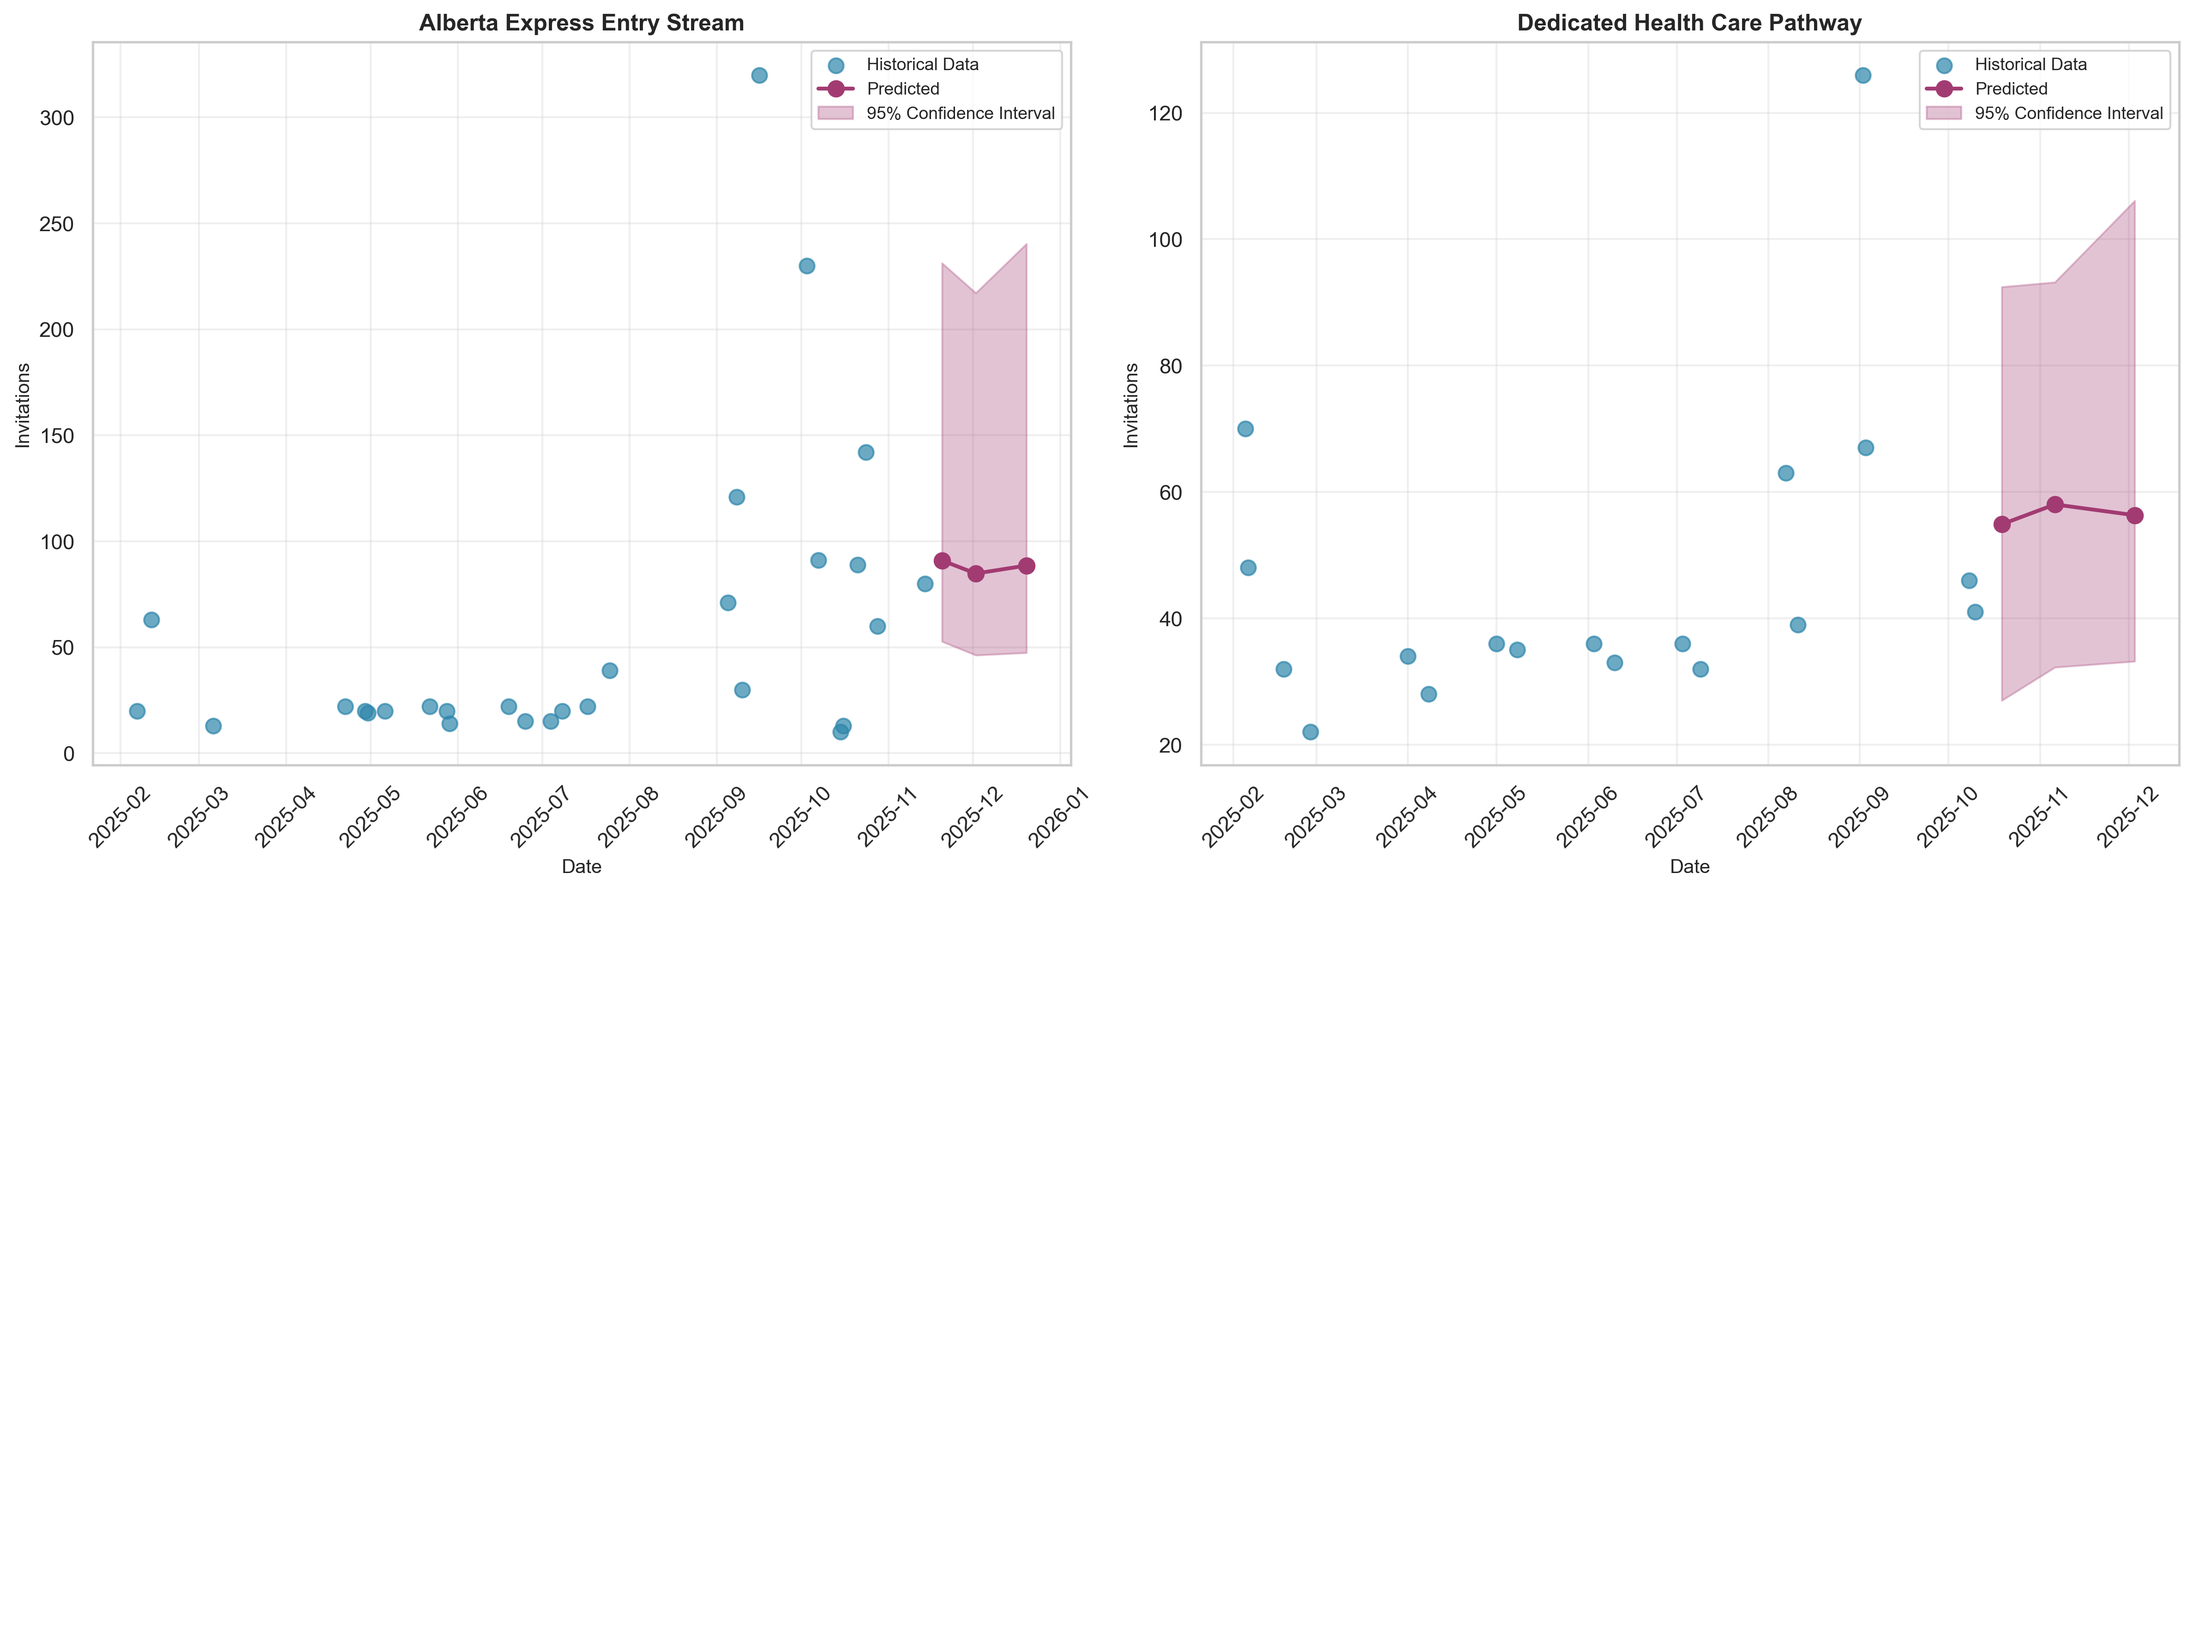
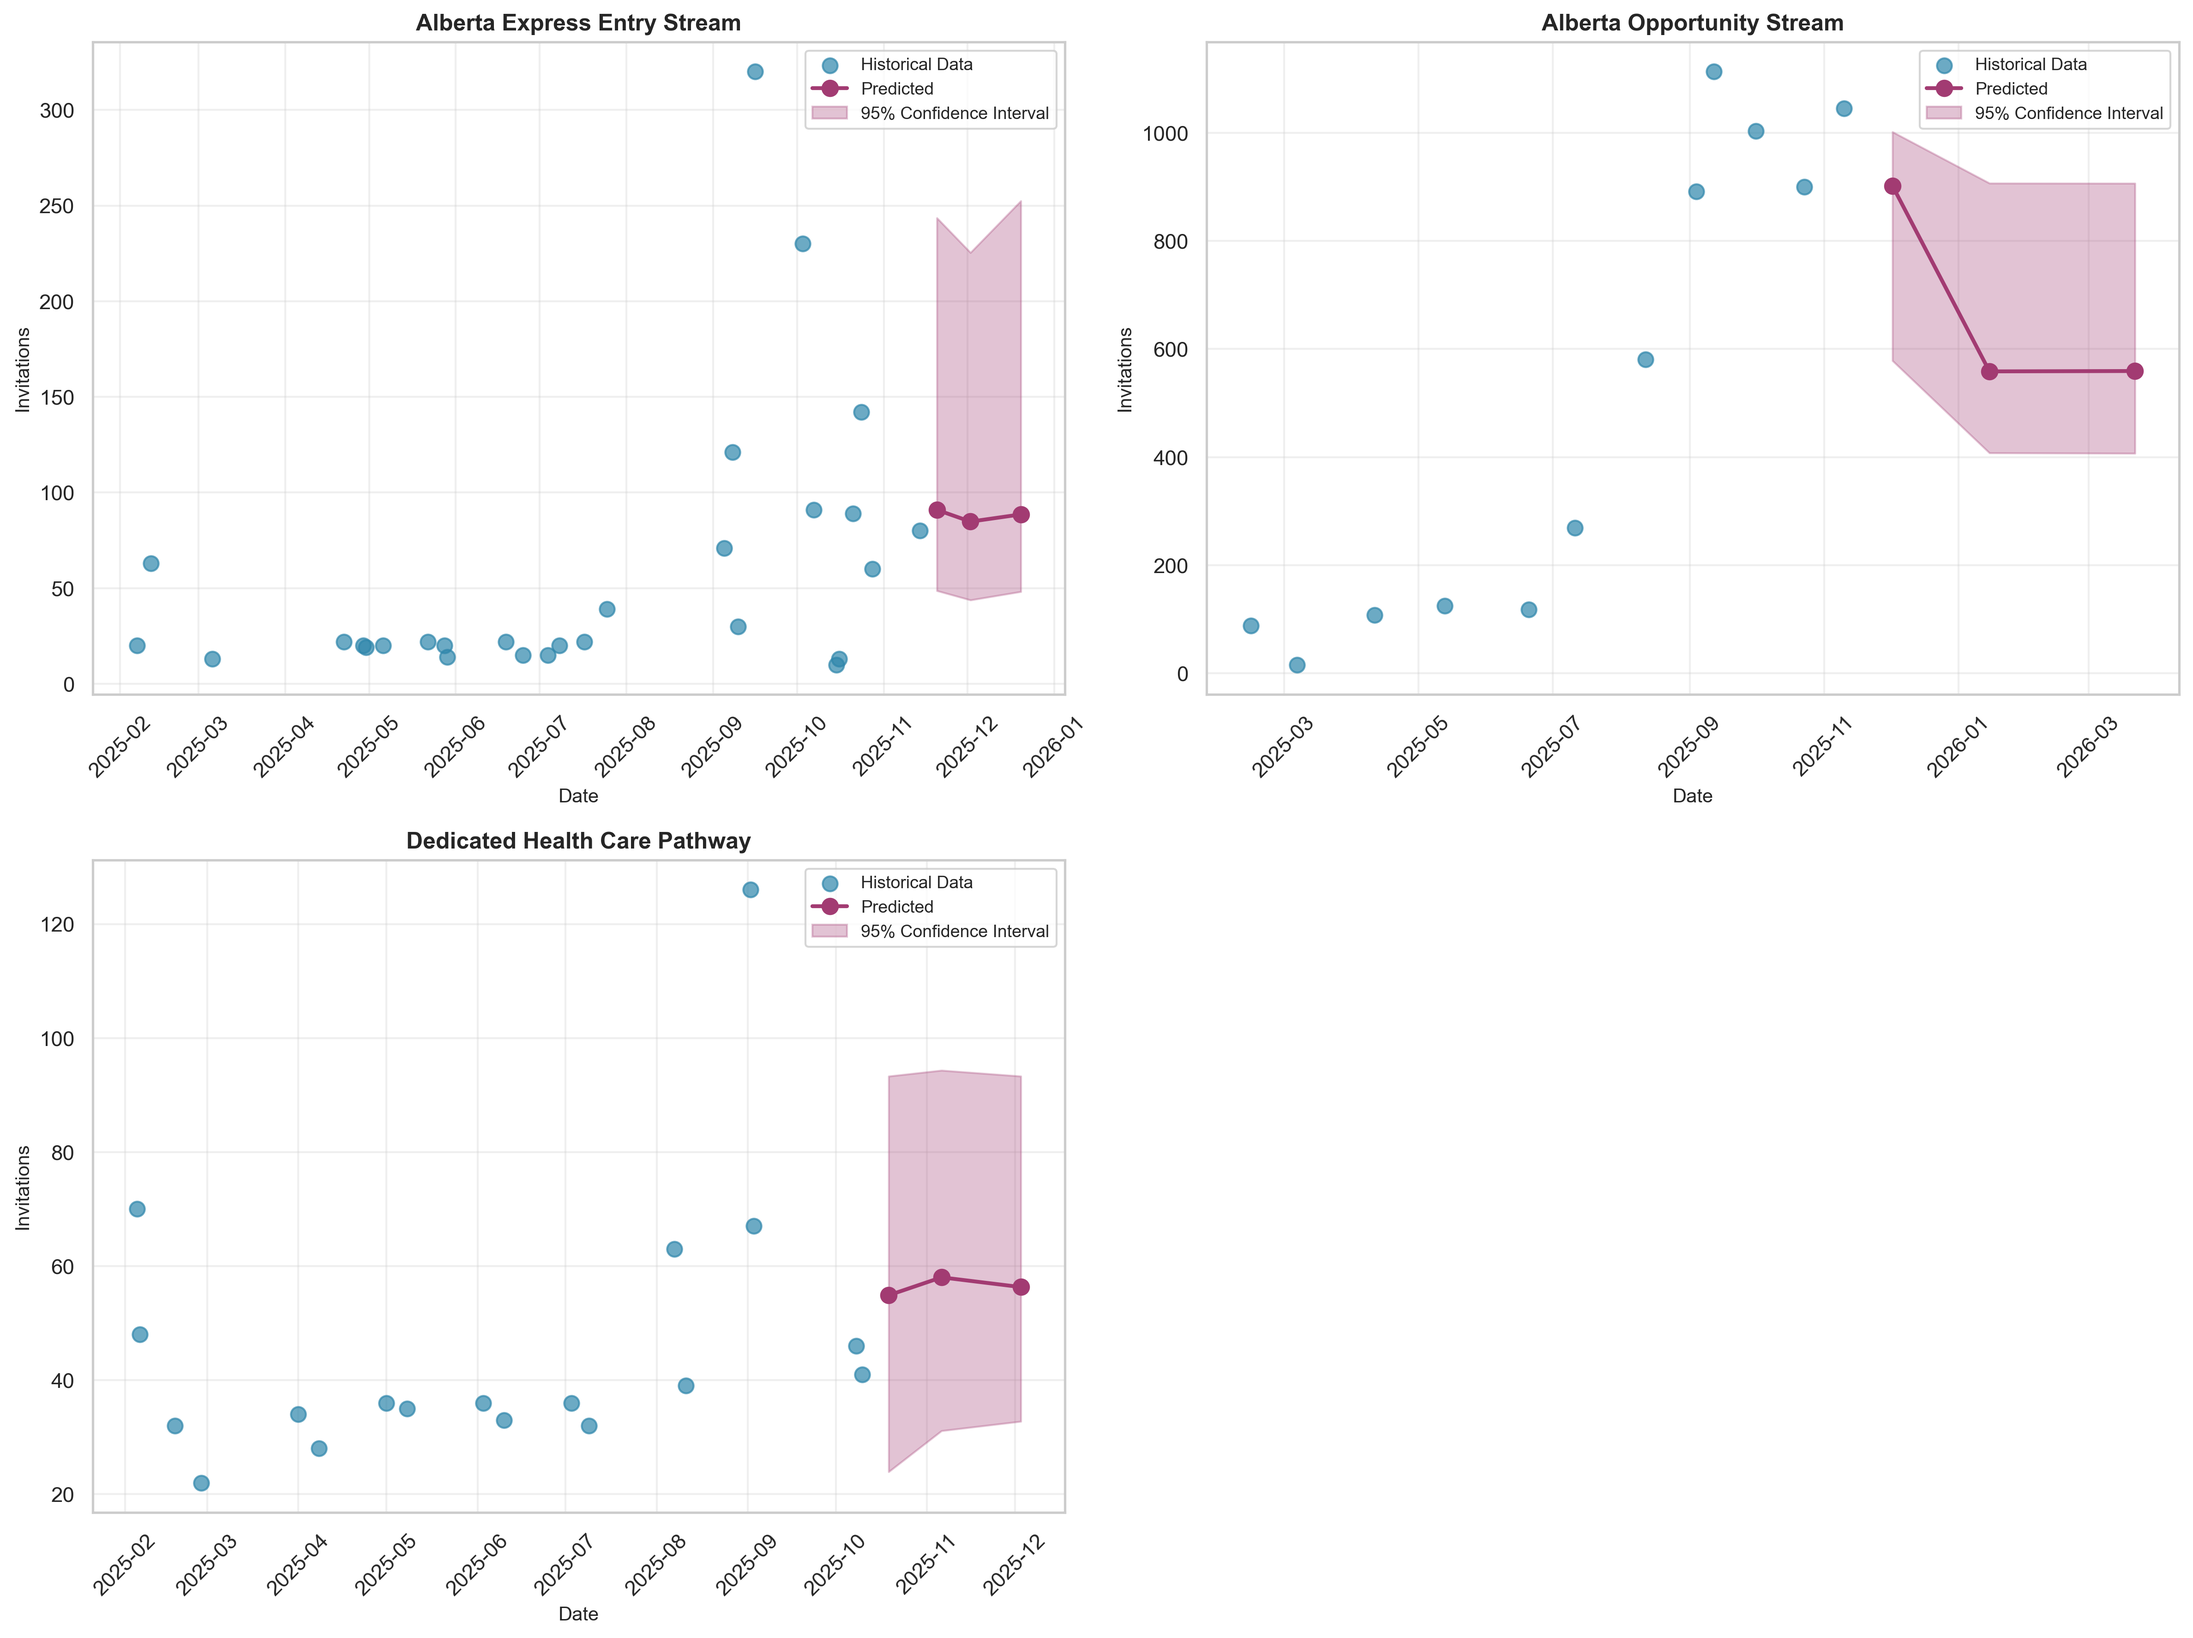
Update model report and visualization files

diff --git a/src/fixed_modeling.py b/src/fixed_modeling.py
@@ -143,7 +143,7 @@ def rolling_backtest_fixed(
     g: pd.DataFrame,
     feature_cols: List[str],
     model_factory,
-    min_train: int = 12,
+    min_train: int = 8,
 ) -> Tuple[float, int, str]:
     """
     FIX 4: Rolling validation with feature rebuilding in each slice.
@@ -152,7 +152,7 @@ def rolling_backtest_fixed(
     """
     g = g.sort_values("draw_date")
 
-    if g.shape[0] <= min_train:
+    if g.shape[0] < min_train:
         return np.nan, 0, f"Insufficient data ({g.shape[0]} events, need {min_train}+)"
 
     preds, actuals = [], []

diff --git a/reports/fixed_model_report.md b/reports/fixed_model_report.md
@@ -12,34 +12,38 @@
 
 | Stream | Model | MAE | Test Size | Train Events |
 | --- | --- | --- | --- | --- |
-| Alberta Express Entry | Linear | N/A - Insufficient data (3 events, need 12+) | 0 | 3 |
-| Alberta Express Entry | RandomForest | N/A - Insufficient data (3 events, need 12+) | 0 | 3 |
-| Alberta Express Entry | GradientBoosting | N/A - Insufficient data (3 events, need 12+) | 0 | 3 |
-| Alberta Express Entry Stream | Linear | 387.17 | 17 | 28 |
-| Alberta Express Entry Stream | RandomForest | 69.46 | 17 | 28 |
-| Alberta Express Entry Stream | GradientBoosting | 78.42 | 17 | 28 |
-| Alberta Opportunity Stream | Linear | N/A - Insufficient data (12 events, need 12+) | 0 | 12 |
-| Alberta Opportunity Stream | RandomForest | N/A - Insufficient data (12 events, need 12+) | 0 | 12 |
-| Alberta Opportunity Stream | GradientBoosting | N/A - Insufficient data (12 events, need 12+) | 0 | 12 |
-| Dedicated Health Care Pathway | Linear | 126.83 | 7 | 18 |
-| Dedicated Health Care Pathway | RandomForest | 32.55 | 7 | 18 |
-| Dedicated Health Care Pathway | GradientBoosting | 33.59 | 7 | 18 |
-| Tourism and Hospitality Stream | Linear | N/A - Insufficient data (3 events, need 12+) | 0 | 3 |
-| Tourism and Hospitality Stream | RandomForest | N/A - Insufficient data (3 events, need 12+) | 0 | 3 |
-| Tourism and Hospitality Stream | GradientBoosting | N/A - Insufficient data (3 events, need 12+) | 0 | 3 |
+| Alberta Express Entry | Linear | N/A - Insufficient data (3 events, need 8+) | 0 | 3 |
+| Alberta Express Entry | RandomForest | N/A - Insufficient data (3 events, need 8+) | 0 | 3 |
+| Alberta Express Entry | GradientBoosting | N/A - Insufficient data (3 events, need 8+) | 0 | 3 |
+| Alberta Express Entry Stream | Linear | 318.86 | 21 | 28 |
+| Alberta Express Entry Stream | RandomForest | 58.51 | 21 | 28 |
+| Alberta Express Entry Stream | GradientBoosting | 68.94 | 21 | 28 |
+| Alberta Opportunity Stream | Linear | 770.79 | 4 | 12 |
+| Alberta Opportunity Stream | RandomForest | 182.52 | 4 | 12 |
+| Alberta Opportunity Stream | GradientBoosting | 129.6 | 4 | 12 |
+| Dedicated Health Care Pathway | Linear | 84.4 | 11 | 18 |
+| Dedicated Health Care Pathway | RandomForest | 21.31 | 11 | 18 |
+| Dedicated Health Care Pathway | GradientBoosting | 22.71 | 11 | 18 |
+| Tourism and Hospitality Stream | Linear | N/A - Insufficient data (3 events, need 8+) | 0 | 3 |
+| Tourism and Hospitality Stream | RandomForest | N/A - Insufficient data (3 events, need 8+) | 0 | 3 |
+| Tourism and Hospitality Stream | GradientBoosting | N/A - Insufficient data (3 events, need 8+) | 0 | 3 |
 
 ## Best Models
 
 - **Alberta Express Entry Stream**: RandomForest
+- **Alberta Opportunity Stream**: GradientBoosting
 - **Dedicated Health Care Pathway**: RandomForest
 
 ## Forecasts (with Block Bootstrap 95% CI)
 
 | Stream | Date | Predicted | 95% CI Lower | 95% CI Upper | Model | Holiday |
 | --- | --- | --- | --- | --- | --- | --- |
-| Alberta Express Entry Stream | 2025-11-20 | 91 | 53 | 231 | RandomForest |  |
-| Alberta Express Entry Stream | 2025-12-02 | 85 | 46 | 217 | RandomForest |  |
-| Alberta Express Entry Stream | 2025-12-20 | 89 | 47 | 240 | RandomForest |  |
-| Dedicated Health Care Pathway | 2025-10-19 | 55 | 27 | 92 | RandomForest |  |
-| Dedicated Health Care Pathway | 2025-11-06 | 58 | 32 | 93 | RandomForest |  |
-| Dedicated Health Care Pathway | 2025-12-03 | 56 | 33 | 106 | RandomForest |  |
+| Alberta Express Entry Stream | 2025-11-20 | 91 | 49 | 244 | RandomForest |  |
+| Alberta Express Entry Stream | 2025-12-02 | 85 | 44 | 225 | RandomForest |  |
+| Alberta Express Entry Stream | 2025-12-20 | 89 | 48 | 252 | RandomForest |  |
+| Alberta Opportunity Stream | 2025-12-02 | 902 | 578 | 1002 | GradientBoosting |  |
+| Alberta Opportunity Stream | 2026-01-15 | 559 | 408 | 907 | GradientBoosting |  |
+| Alberta Opportunity Stream | 2026-03-22 | 559 | 407 | 906 | GradientBoosting |  |
+| Dedicated Health Care Pathway | 2025-10-19 | 55 | 24 | 93 | RandomForest |  |
+| Dedicated Health Care Pathway | 2025-11-06 | 58 | 31 | 94 | RandomForest |  |
+| Dedicated Health Care Pathway | 2025-12-03 | 56 | 33 | 93 | RandomForest |  |
